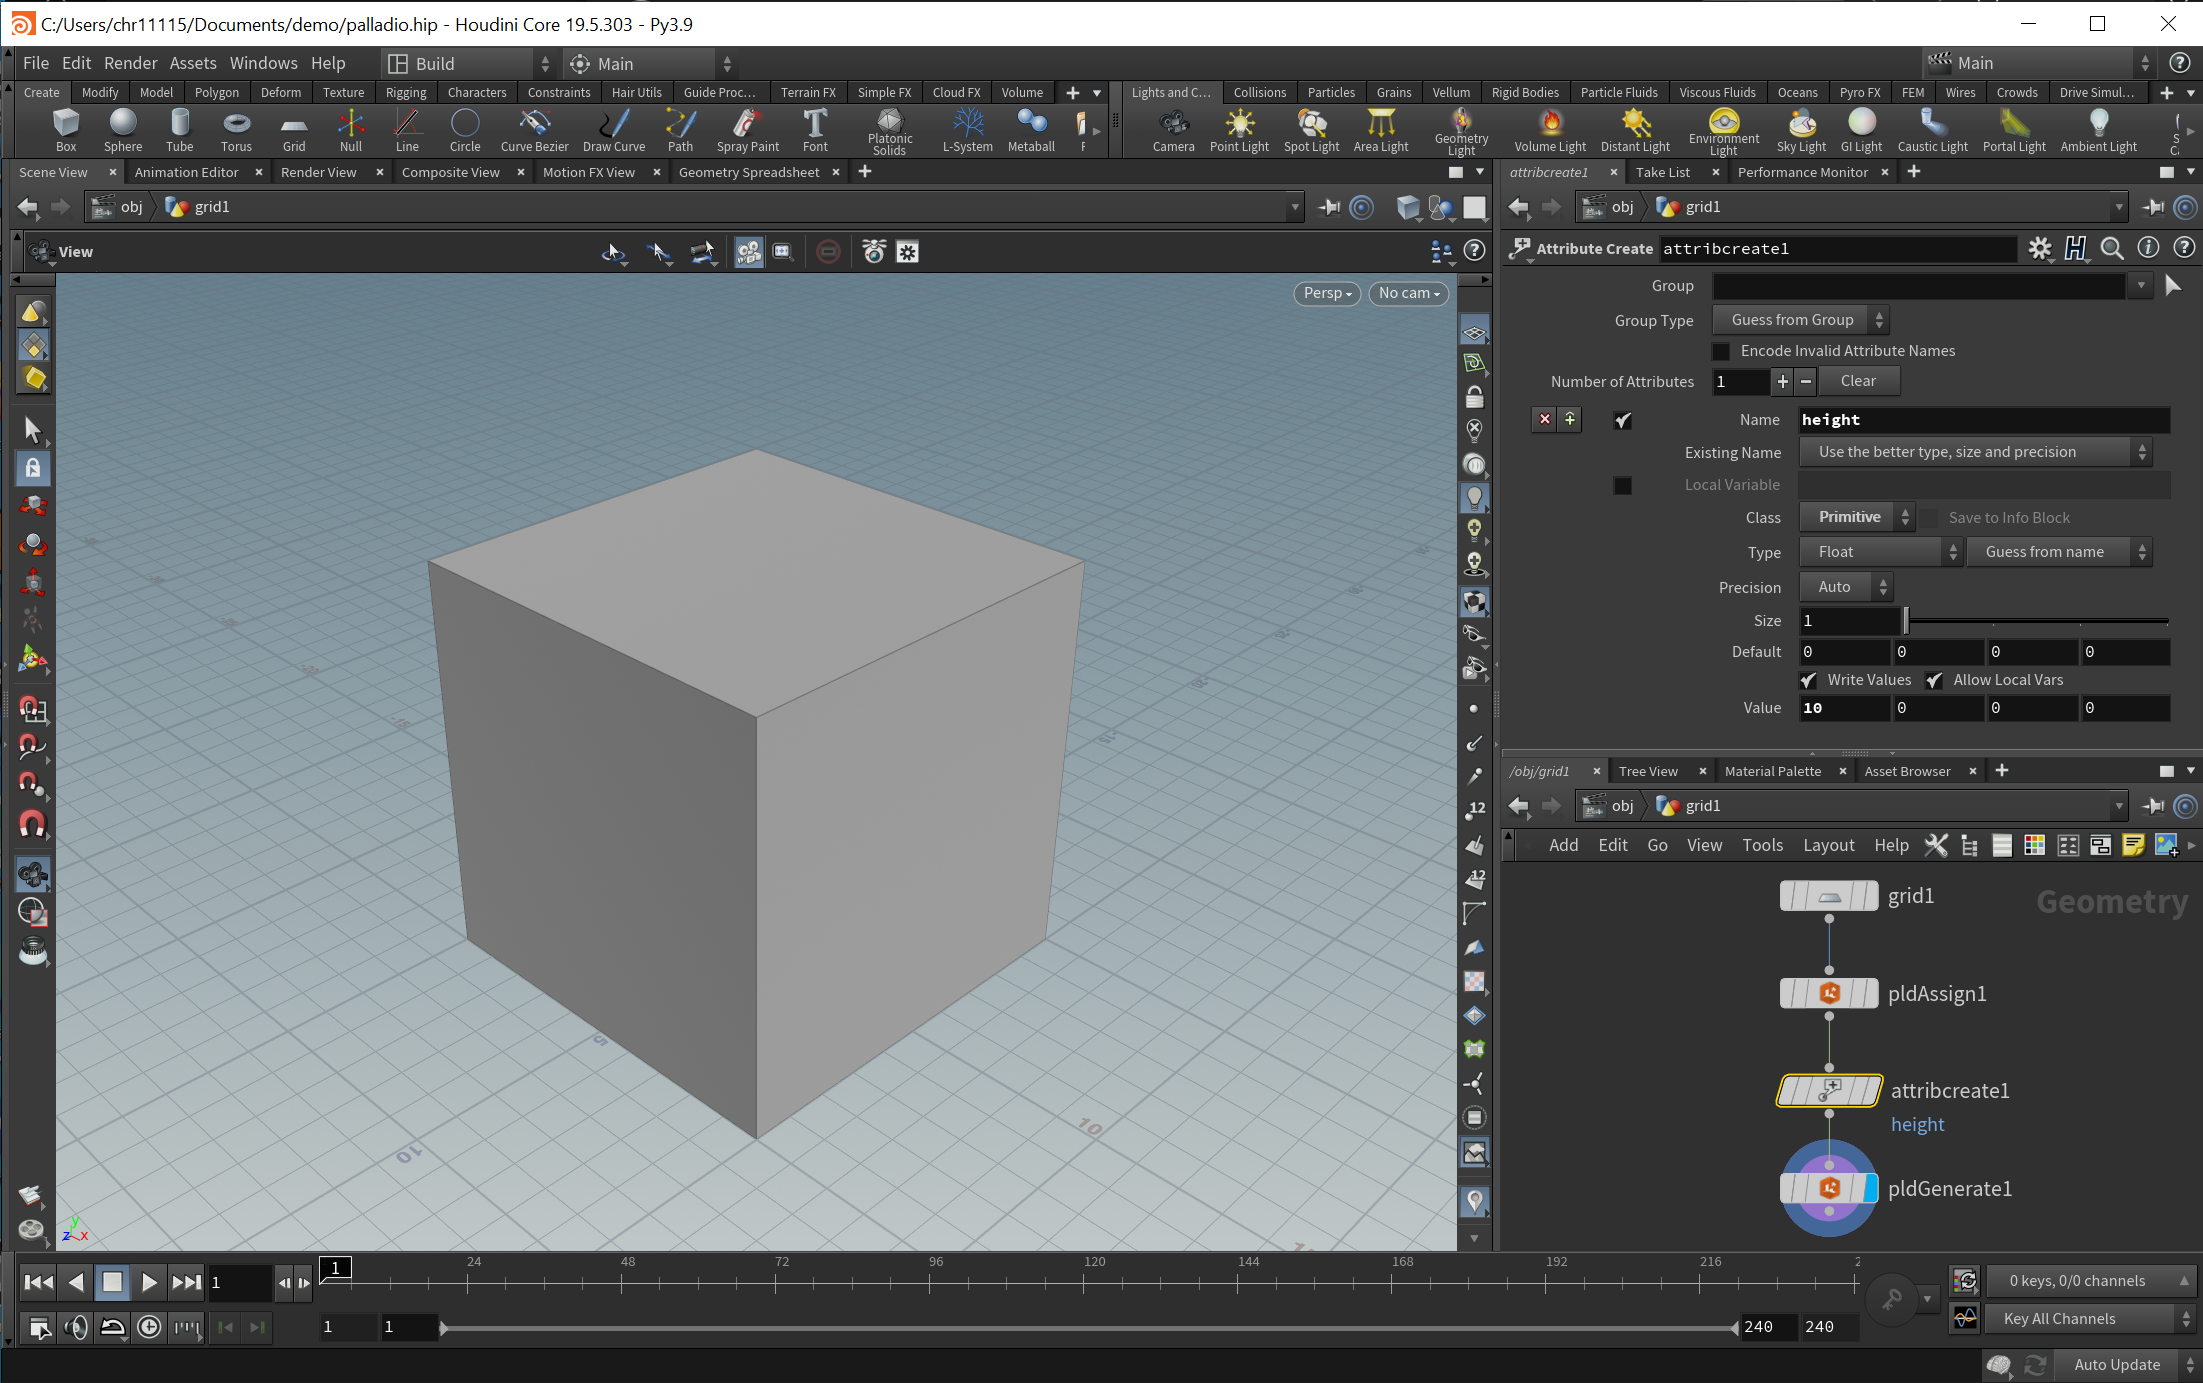
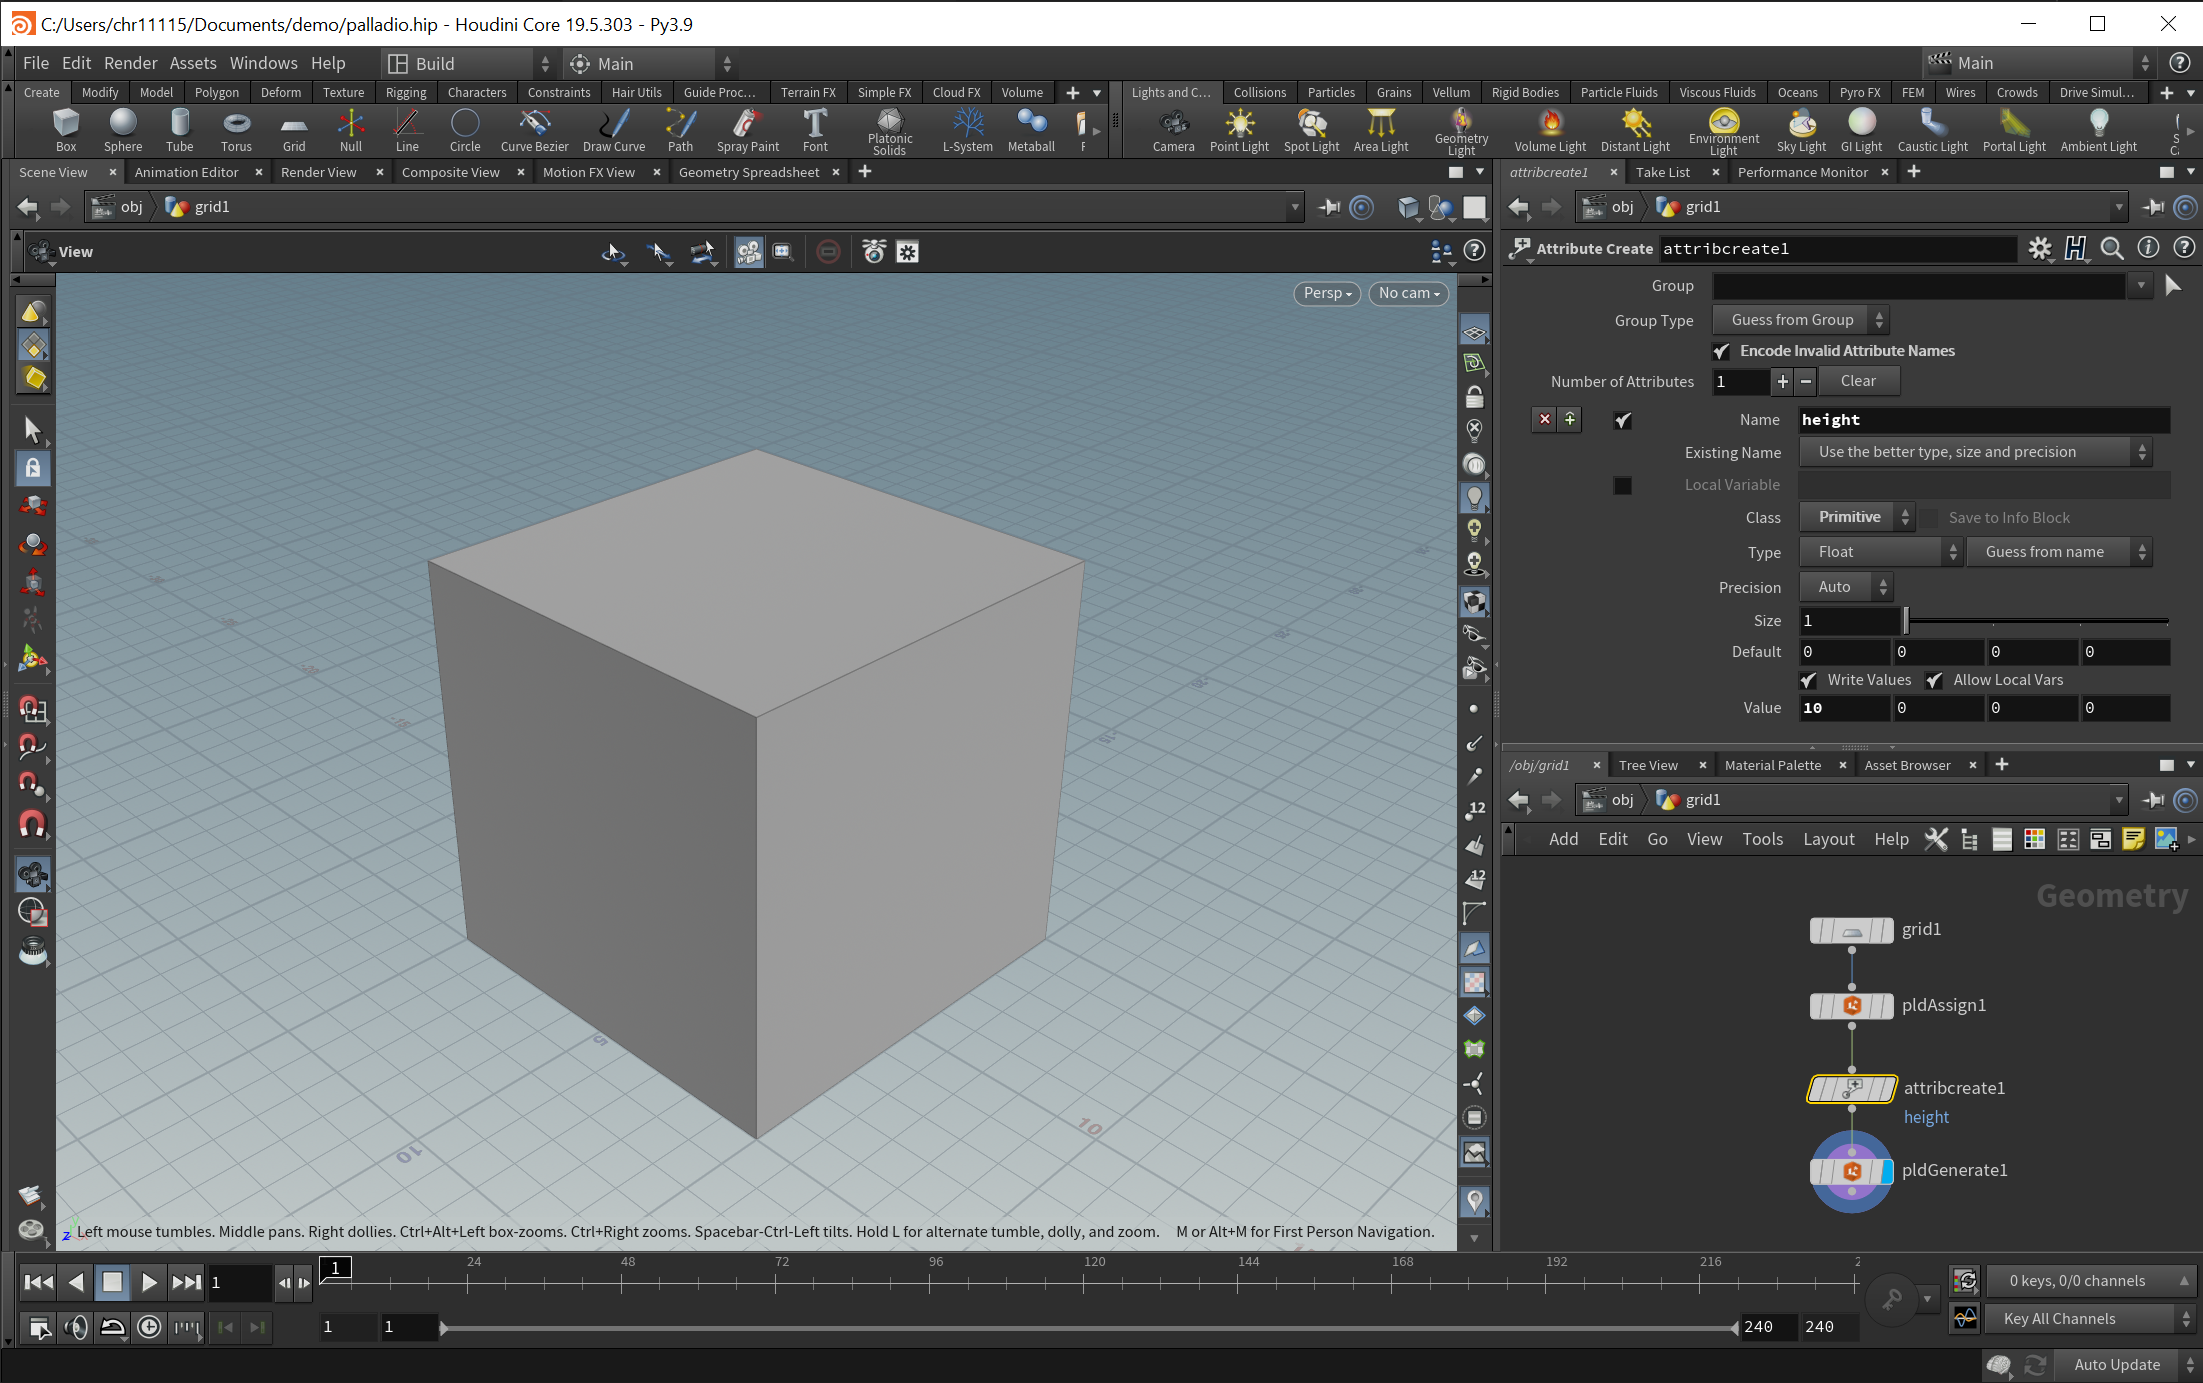
Doc: fix outdated section regarding renaming of rule attributes
All rule attribute names are now encoded.

diff --git a/README.md b/README.md
@@ -110,11 +110,13 @@ In the previous section we've used the default value for the `height` attribute.
 
 1. Add an `AttributeCreate` node between `pldAssign` and `pldGenerate`.
 1. Set the attribute name to `height` and the `Class` to `Primitive`. The extrusion vanishes because the default value is 0.
-1. Increase the value for `height` to see an actual extrusion: ![](doc/img/attribute02.png)
+1. Increase the value for `height` to see an actual extrusion: 
+
+![](doc/img/attribute02.png)
 
 Please note the steps for the general case:
 1. See the CGA file (or CityEngine) for the available attributes and their data types (number, string, boolean). 
-1. In the `AttributeCreate` node, set `name` to the name of the CGA attribute (replace dots `.` with double underscores `__`).
+1. In the `AttributeCreate` node, set `name` to the name of the CGA attribute (make sure to check `Encode Invalid Attribute Names`).
 1. Set `class` to `Primitive`.
 1. Set `type` to `Float` for CGA number attributes, `String` for CGA strings and `Integer` with 8 bit precision for CGA booleans.
 
